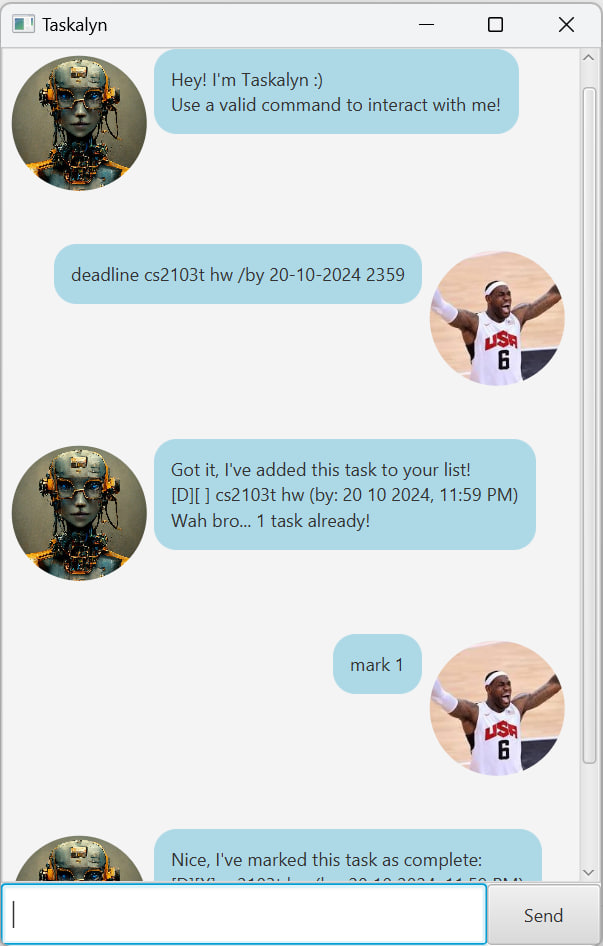
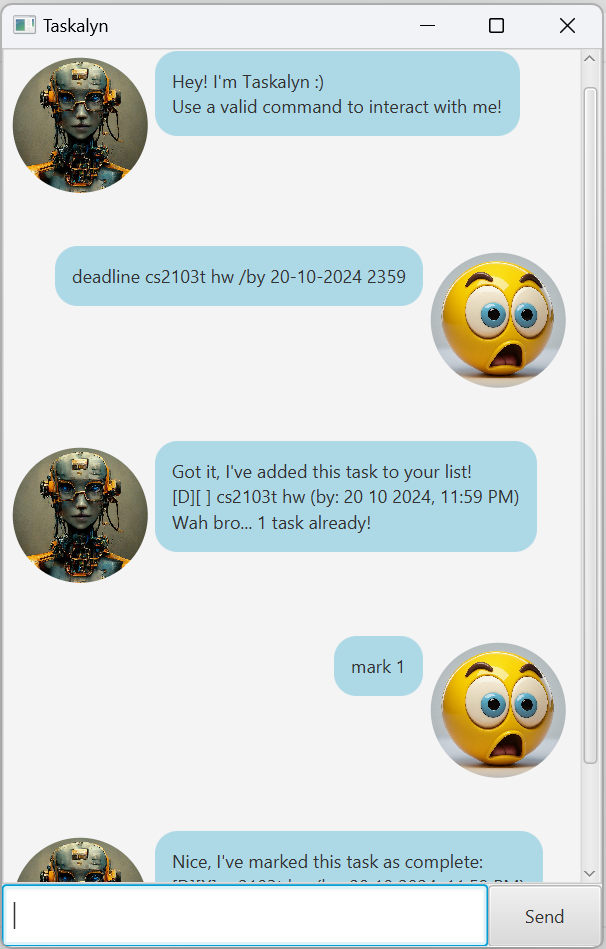
Update user image and README.md

diff --git a/docs/README.md b/docs/README.md
@@ -4,6 +4,8 @@
     <img src="Ui.png" alt="Taskalyn Screenshot" width="350">
 </div>
 
+*Images courtesy of Gemini by Google.*
+
 ## Introduction
 
 Taskalyn is your personal task manager.\
